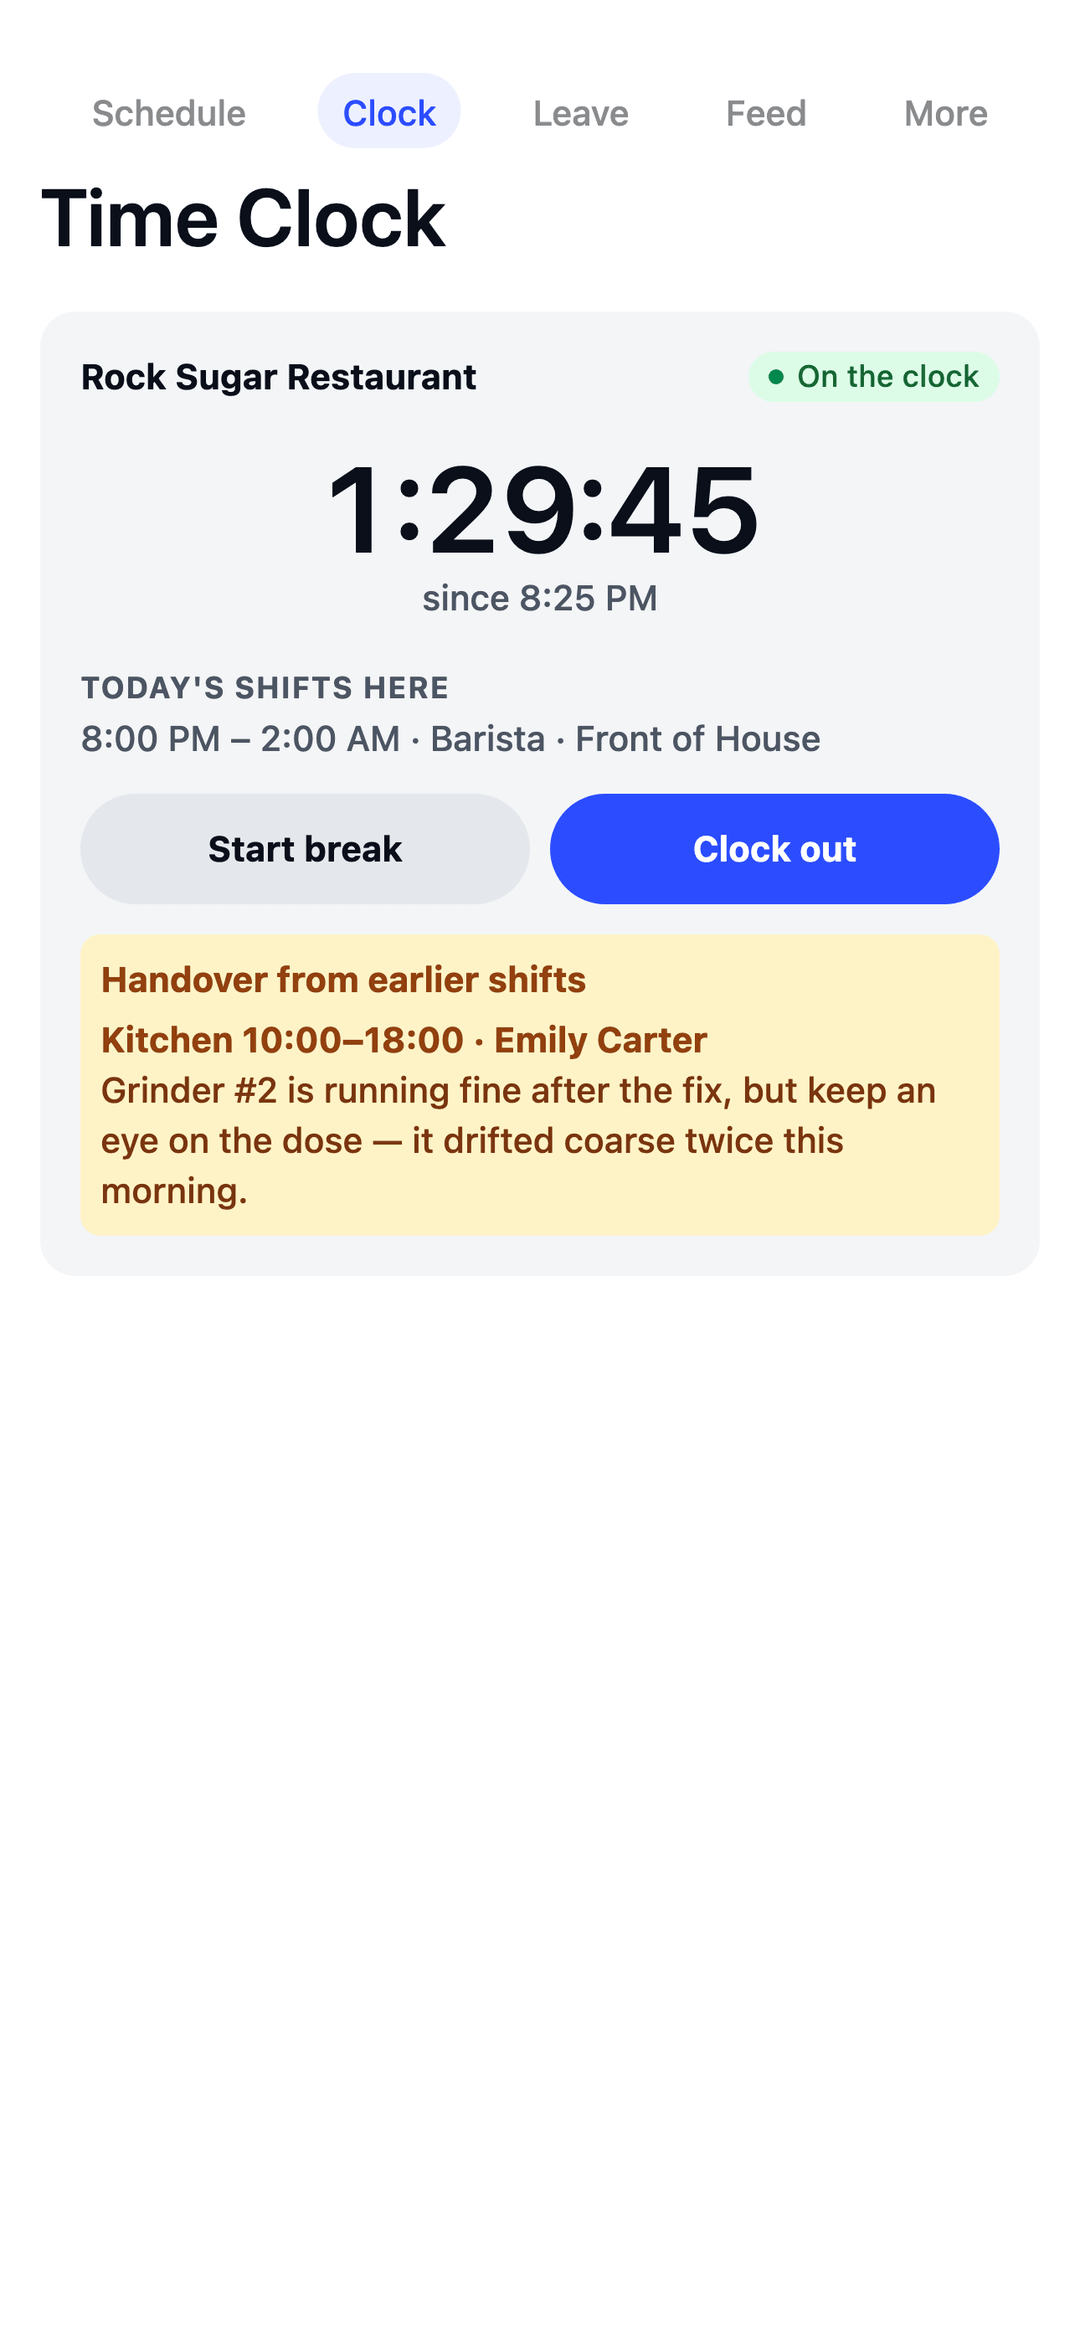
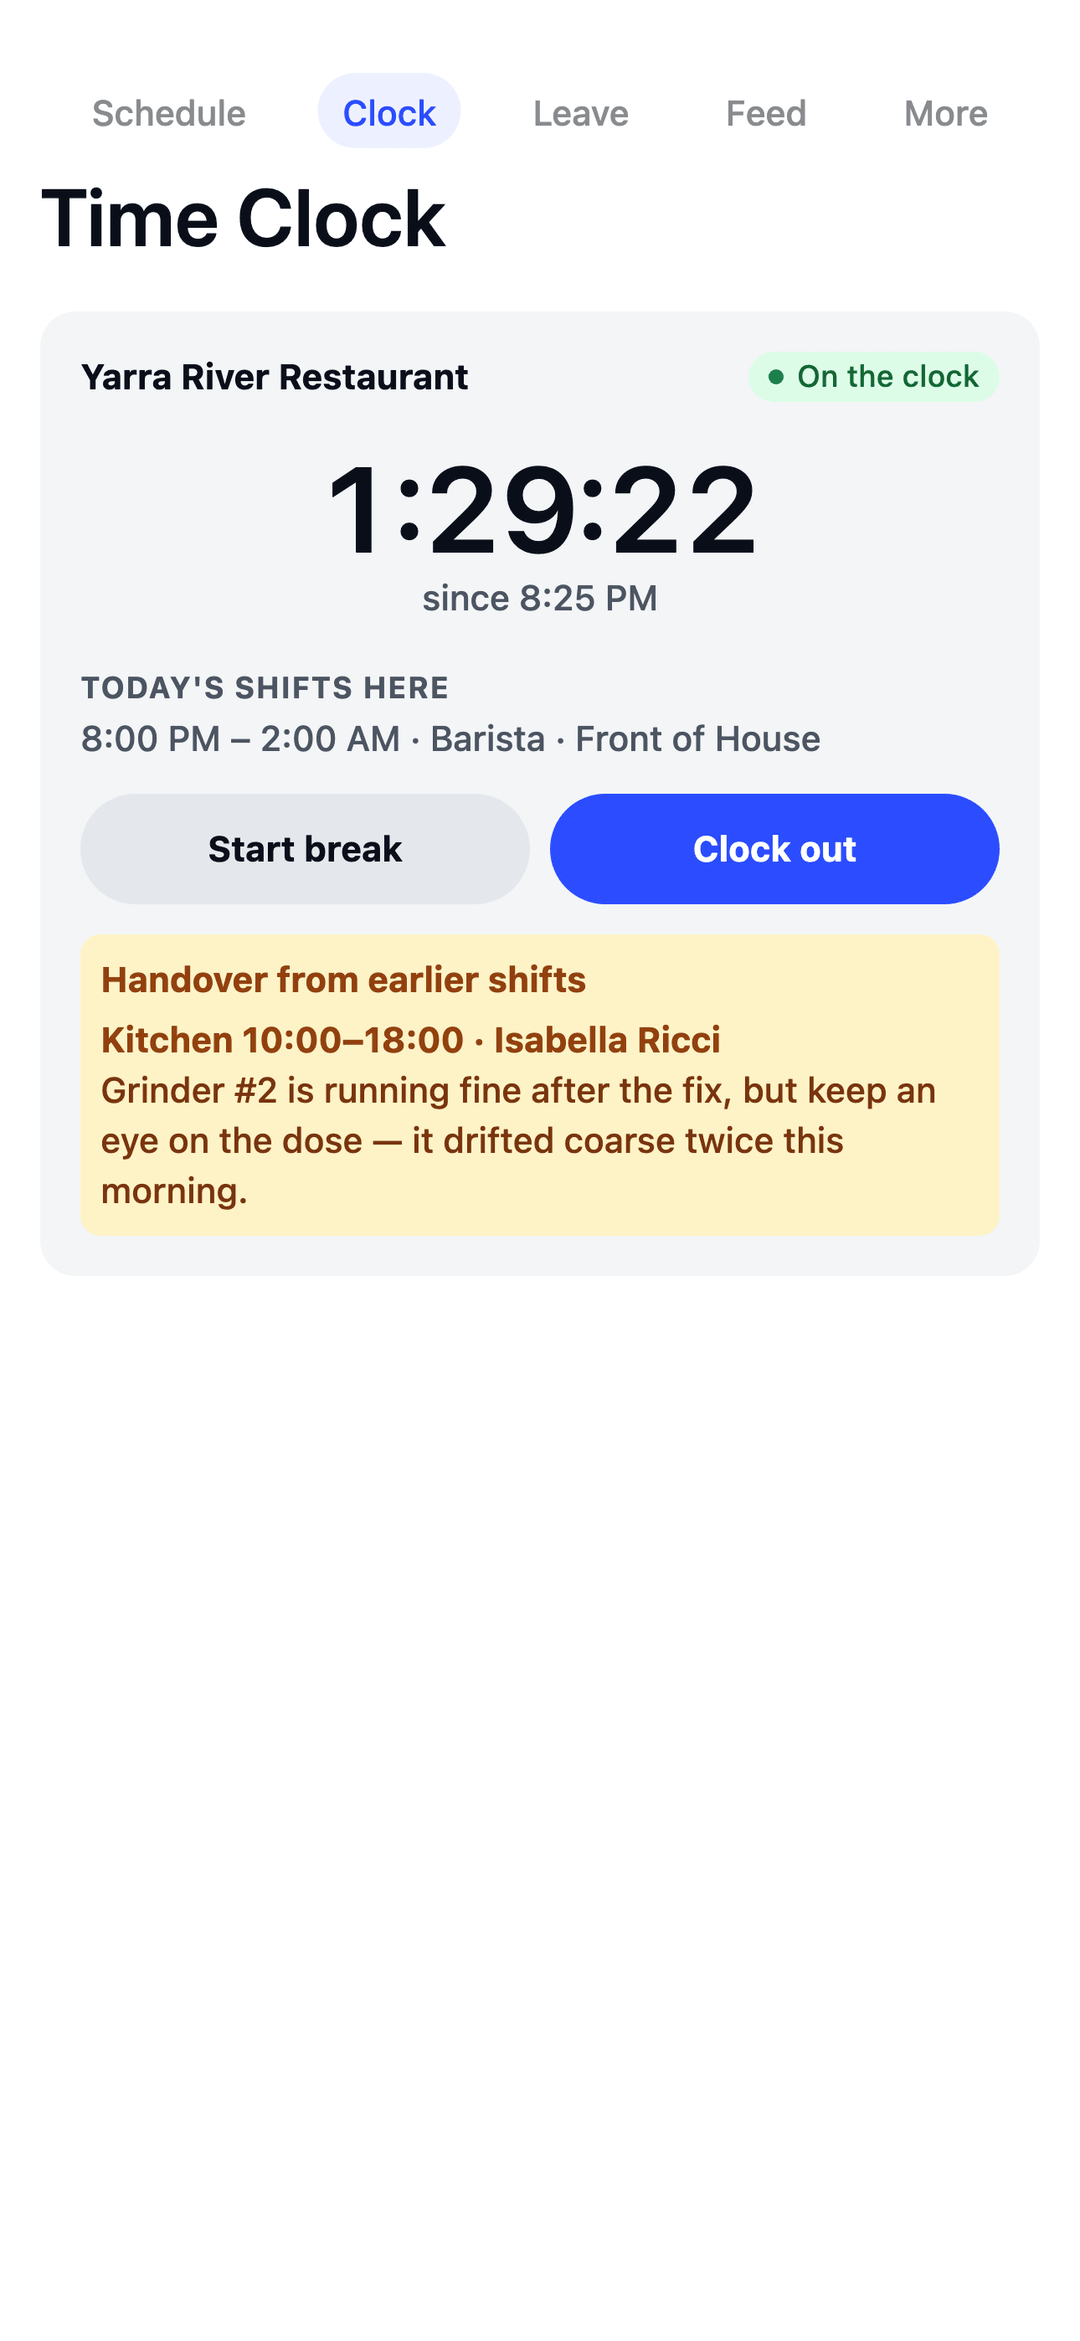
site: sync from monorepo 2941fef

Changed region(s): [[0.0611, 0.1559, 0.4583, 0.1871], [0.55, 0.1871, 0.7028, 0.2495], [0.4583, 0.4366, 0.6722, 0.4677]]

diff --git a/index.html b/index.html
@@ -62,6 +62,25 @@
     </div>
   </section>
 
+  <!-- Early-customer logo strip — REAL venues only (fictional
+       placeholders removed 2026-09-10, owner-approved deploy with the
+       two real logos; both venues are the owner's own businesses, so
+       artwork approval is the owner's in-chat OK). Fake/placeholder
+       logos must NEVER ship — a fictional venue shown as a customer
+       is fabricated social proof. To add a real customer: README
+       "Assets" — original artwork untouched (one recorded exception:
+       rock-sugar-grey.svg, owner-supplied trace, owner call
+       2026-09-10 — do not "fix" back). -->
+  <section class="logos" aria-label="Teams using TEAM MATE">
+    <div class="wrap">
+      <span class="label">The first crews on board</span>
+      <ul class="logo-row">
+        <li><img src="assets/logos/rice-rice-baby.png" alt="Rice Rice Baby To Go" class="xl light-art" width="384" height="192" loading="lazy"></li>
+        <li><img src="assets/logos/rock-sugar-grey.svg" alt="Rock Sugar" class="lg light-art" width="68" height="48" loading="lazy"></li>
+      </ul>
+    </div>
+  </section>
+
   <section class="mist" id="product">
     <div class="wrap">
       <div class="section-head">
@@ -95,7 +114,7 @@
       <ul class="features">
         <li><strong>Open shifts</strong> — see extra shifts you're eligible for and claim them in a tap.</li>
         <li><strong>Swaps</strong> — offer a shift to a teammate; managers approve in the app.</li>
-        <li><strong>Shift reminders</strong> — a push notification before each shift starts.</li>
+        <li><strong>Shift reminders</strong> — a nudge before each shift starts, and a "still clocked in?" one if you forget to clock off.</li>
         <li><strong>Leave</strong> — check balances, request time off, track approvals.</li>
         <li><strong>Announcements and tasks</strong> — read updates, confirm the important ones, tick off today's list.</li>
         <li><strong>Handover notes</strong> — what the last shift wants the next one to know.</li>

diff --git a/styles.css b/styles.css
@@ -186,6 +186,49 @@ section.mist { background: var(--mist); }
 .hero-cta { display: flex; gap: 14px; justify-content: center; flex-wrap: wrap; }
 .hero-cta-left { justify-content: flex-start; margin-top: 32px; }
 
+/* ---- early-customer logo strip (under the hero) ----
+   Source files are the customer's ORIGINAL artwork, never redrawn
+   (owner call, 2026-09-10: the brand is the brand). The grey comes
+   from CSS only — grayscale + fade unify the row on the page while
+   the artwork itself stays untouched. */
+
+.logos {
+  padding: 0 0 88px; /* rides on the hero's bottom padding */
+  text-align: center;
+}
+
+.logos .label { display: block; margin-bottom: 30px; }
+
+.logo-row {
+  display: flex;
+  flex-wrap: wrap;
+  justify-content: center;
+  align-items: center;
+  gap: 26px 54px;
+  margin: 0;
+  padding: 0;
+  list-style: none;
+}
+
+.logo-row img {
+  display: block;
+  height: 32px;
+  width: auto;
+  filter: grayscale(1);
+  opacity: 0.52;
+}
+
+/* per-logo tuning (display only, artwork untouched):
+   .lg/.xl — detailed/ornate marks need more height to read;
+   .light-art — light artwork (e.g. gold) goes ghostly under
+   grayscale alone, so darken it toward the row's grey */
+.logo-row img.lg { height: 48px; }
+.logo-row img.xl { height: 58px; }
+.logo-row img.light-art {
+  filter: grayscale(1) brightness(0.42);
+  opacity: 0.62;
+}
+
 /* ---- pillar cards (Mist, dot-led) ---- */
 
 .cards {
@@ -448,6 +491,13 @@ footer {
   .hero .hero-cta { max-width: 320px; margin-left: auto; margin-right: auto; }
   .hero-cta-left { max-width: 320px; }
   .hero-cta .btn { text-align: center; }
+
+  .logos { padding-bottom: 52px; }
+  .logos .label { margin-bottom: 22px; }
+  .logo-row { gap: 18px 30px; }
+  .logo-row img { height: 24px; }
+  .logo-row img.lg { height: 34px; }
+  .logo-row img.xl { height: 42px; }
 
   .cards { gap: 12px; margin-top: 40px; }
   .card { padding: 22px 20px; }
